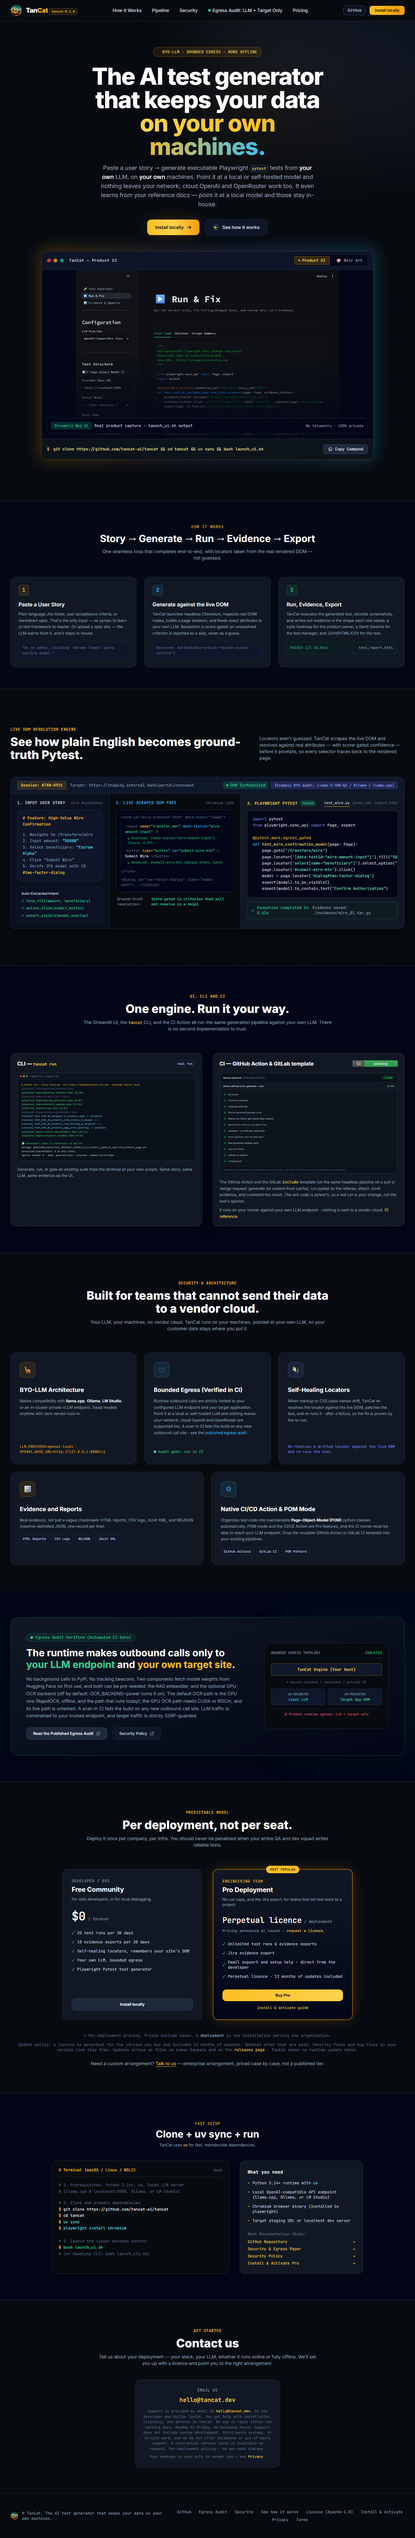
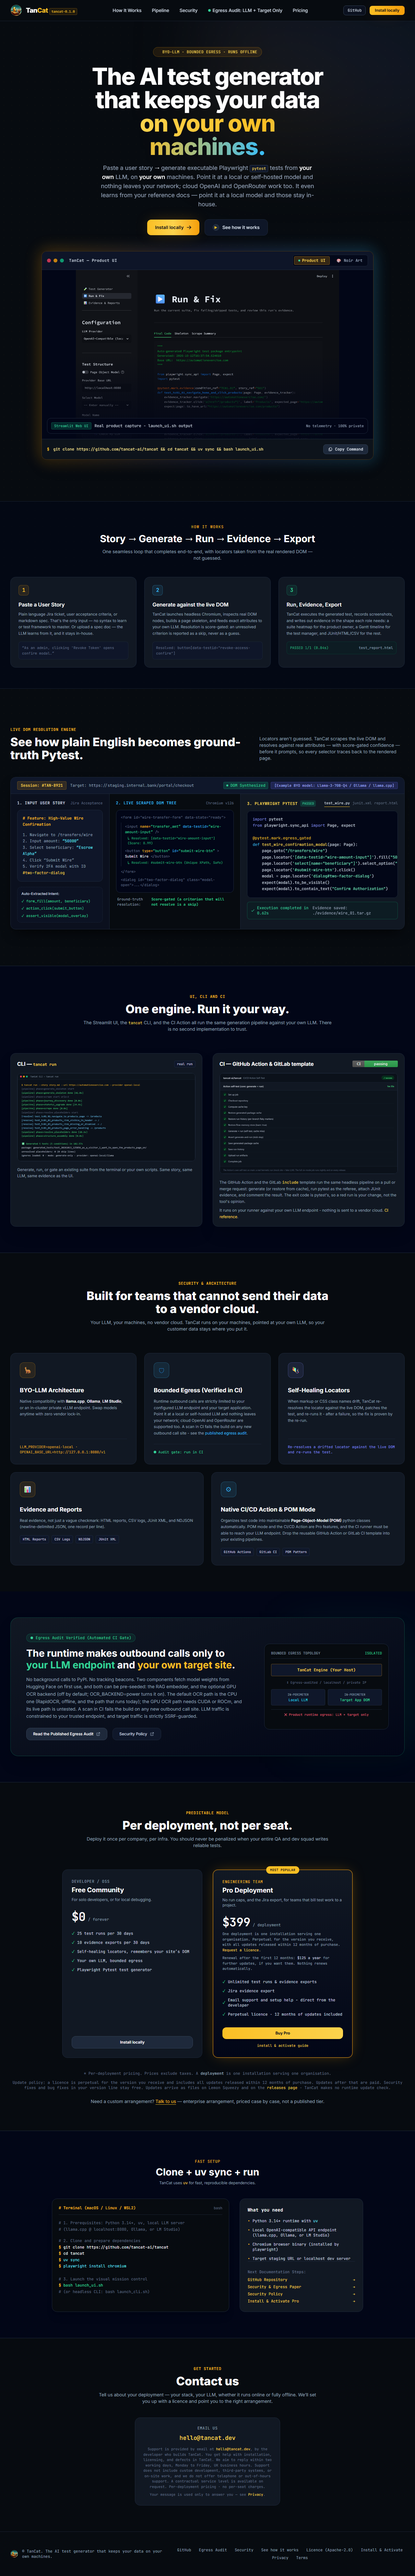
feat(landing): the settled price and update terms on the site (j-0297, d-0151)
The owner's words, written onto the site.

- Price: $399 per deployment, one price. No list price, no introductory wording,
  no 'was', no launch offer - he rejected all of them, because an introductory
  price with no honest end date is a claim he cannot back. 'Pricing announced at
  launch' is gone from the Pro card.
- Deployment: the card and the terms both say 'one installation serving one
  organisation'; the terms' own sentence used the US spelling and now matches.
- Renewal: '$125 a year' on the pricing page only, stated as the price for
  further updates after the first 12 months, with 'nothing renews automatically'.
  It is NOT in the terms, and no future-price or grandfathered language is
  anywhere.
- Terms, word for word as given: 'This licence is perpetual for the version you
  receive. It does not expire.' / 'It includes all updates released within 12
  months of purchase.' / 'Updates released after that are not included and can be
  bought separately if you want them.' / 'Nothing renews automatically. You will
  not be charged again unless you choose to buy.' plus the security-and-bug-fix
  line. The tier table now says 'perpetual for the version you receive' and 'all
  updates released within 12 months of purchase'.

src/licensing/pricing.py is the single source (399, 125, 12 months, the
deployment definition) so the card and the terms cannot drift - the same guard
the free export cap needed.
[…]

diff --git a/landing/index.html b/landing/index.html
@@ -334,15 +334,16 @@
   <div class="bg-gradient-to-b from-cardbg to-slate-950 rounded-2xl p-7 border-2 border-amber-500/60 shadow-amber-glow transition-all flex flex-col justify-between relative">
     <div class="absolute -top-3 left-1/2 -translate-x-1/2 px-3 py-1 bg-amber-400 text-slate-950 text-[10px] font-mono font-bold uppercase rounded-full tracking-wider shadow-sm">Most Popular</div>
     <div><div class="text-xs font-mono uppercase text-amber-400 tracking-wider">Engineering Team</div><h3 class="text-xl font-bold text-white mt-1">Pro Deployment</h3><p class="text-slate-400 text-xs mt-2">No run caps, and the Jira export, for teams that bill test work to a project.</p>
-    <div class="my-6"><span class="text-2xl font-black text-white font-mono">Perpetual licence</span><span class="text-slate-400 text-xs font-mono"> / deployment</span></div>
-    <div class="-mt-4 mb-6 text-[11px] font-mono text-slate-400">Pricing announced at launch - <a class="text-amber-300 hover:underline" href="#contact">request a licence</a>.</div>
+    <div class="my-6"><span class="text-4xl font-black text-white font-mono">$399</span><span class="text-slate-400 text-xs font-mono"> / deployment</span></div>
+    <div class="-mt-4 mb-6 text-[11px] font-mono text-slate-400">One deployment is one installation serving one organisation. Perpetual for the version you receive, with all updates released within 12 months of purchase. <a class="text-amber-300 hover:underline" href="#contact">Request a licence</a>.</div>
+    <div class="-mt-4 mb-6 text-[11px] font-mono text-slate-400">Renewal after the first 12 months: <span class="text-slate-300">$125 a year</span> for further updates, if you want them. Nothing renews automatically.</div>
     <ul class="space-y-3 text-xs text-slate-300 font-mono"><li class="flex items-center gap-2 text-emerald-400"><span>&#10003;</span><span class="text-slate-300">Unlimited test runs &amp; evidence exports</span></li><li class="flex items-center gap-2 text-emerald-400"><span>&#10003;</span><span class="text-slate-300">Jira evidence export</span></li><li class="flex items-center gap-2 text-emerald-400"><span>&#10003;</span><span class="text-slate-300">Email support and setup help - direct from the developer</span></li><li class="flex items-center gap-2 text-emerald-400"><span>&#10003;</span><span class="text-slate-300">Perpetual licence &middot; 12 months of updates included</span></li></ul></div>
     <div class="mt-8"><a class="w-full block text-center py-2.5 px-4 rounded-xl text-xs font-bold text-slate-950 bg-gradient-to-r from-amber-400 to-amber-300 hover:brightness-110 shadow-md transition-all" href="#contact" id="buy-pro" data-checkout-state="not-configured">Buy Pro</a></div>
     <p class="mt-3 text-center text-[11px] font-mono text-slate-500"><a class="text-amber-300 hover:underline" href="install.html">install &amp; activate guide</a></p>
   </div>
 </div>
 <div class="text-center mt-10 text-xs font-mono text-slate-500">* Per-deployment pricing. Prices exclude taxes. A <strong class="text-slate-400">deployment</strong> is one installation serving one organisation.</div>
-<div class="text-center mt-3 text-xs font-mono text-slate-500">Update policy: a licence is perpetual for the version you buy and includes 12 months of updates. Updates after that are paid. Security fixes and bug fixes in your version line stay free. Updates arrive as files on Lemon Squeezy and on the <a class="text-amber-300 hover:underline" href="https://github.com/tancat-ai/tancat/releases" rel="noopener noreferrer" target="_blank">releases page</a> - TanCat makes no runtime update check.</div>
+<div class="text-center mt-3 text-xs font-mono text-slate-500">Update policy: a licence is perpetual for the version you receive and includes all updates released within 12 months of purchase. Updates after that are paid. Security fixes and bug fixes in your version line stay free. Updates arrive as files on Lemon Squeezy and on the <a class="text-amber-300 hover:underline" href="https://github.com/tancat-ai/tancat/releases" rel="noopener noreferrer" target="_blank">releases page</a> - TanCat makes no runtime update check.</div>
 <div class="text-center mt-6 text-sm text-slate-400">
   Need a custom arrangement?
   <a class="text-amber-400 hover:text-amber-300 underline underline-offset-4" href="#contact">Talk to us</a>

diff --git a/landing/terms.html b/landing/terms.html
@@ -67,16 +67,20 @@ footer{margin-top:56px;padding-top:20px;border-top:1px solid #1e293b;font:12px u
 <table>
 <tr><th>Tier</th><th>Licence</th><th>Limits</th></tr>
 <tr><td>Free Community</td><td>Apache-2.0 (the open-source licence in the <a href="https://github.com/tancat-ai/tancat/blob/main/LICENSE" rel="noopener">repository</a>)</td><td>25 test runs per 30 days; 10 evidence exports per 30 days</td></tr>
-<tr><td>Pro Deployment</td><td>Commercial per-deployment licence, key issued by us; perpetual for the version bought</td><td>Unlimited runs for one deployment; Jira evidence export; 12 months of updates included</td></tr>
+<tr><td>Pro Deployment</td><td>$399 per deployment, key issued by us; perpetual for the version you receive</td><td>Unlimited runs for one deployment; Jira evidence export; all updates released within 12 months of purchase</td></tr>
 </table>
 <p>Custom, regulated or enterprise arrangements are agreed case by case, not sold as a published tier. <a href="index.html#contact">Contact us</a>.</p>
 
 <h2>Updates</h2>
-<p>A licence is <strong>perpetual for the version you buy</strong>: it does not expire, and the version you hold keeps working. It includes <strong>12 months of updates</strong> from the date of purchase. After those 12 months, further updates are paid. Security fixes and bug fixes in the version line you bought stay free for the life of the licence.</p>
+<p>This licence is perpetual for the version you receive. It does not expire.</p>
+<p>It includes all updates released within 12 months of purchase.</p>
+<p>Updates released after that are not included and can be bought separately if you want them.</p>
+<p>Nothing renews automatically. You will not be charged again unless you choose to buy.</p>
+<p>Security fixes and bug fixes for the version you hold are provided at no charge.</p>
 <p>Updates are delivered as files on Lemon Squeezy and on the <a href="https://github.com/tancat-ai/tancat/releases" rel="noopener">releases page</a>. TanCat does not check for updates at runtime and calls no vendor server; you choose when to install an update.</p>
 
 <h2>What a &ldquo;deployment&rdquo; is</h2>
-<p>One deployment is one installation of TanCat that serves one organization. You may not share, resell or publish a licence key. The free-tier limits are enforced locally by your own deployment, so a self-hoster can turn them off; they are a nudge, not a lock. We ask that you do not reset a limit to avoid paying for a paid tier.</p>
+<p>One deployment is one installation serving one organisation. You may not share, resell or publish a licence key. The free-tier limits are enforced locally by your own deployment, so a self-hoster can turn them off; they are a nudge, not a lock. We ask that you do not reset a limit to avoid paying for a paid tier.</p>
 
 <h2>Your responsibilities</h2>
 <ul>

diff --git a/tests/test_landing_price.py b/tests/test_landing_price.py
@@ -1,0 +1,95 @@
+"""d-0151: the price and the update policy, held to one source.
+
+The same drift the free export cap had: a number typed in two places. The owner's
+settled position (2026-11-06) is in ``src/licensing/pricing.py``; these tests hold
+the pricing card and the terms to it, and forbid the claims he rejected.
+"""
+
+from __future__ import annotations
+
+import re
+from pathlib import Path
+
+from src.licensing.pricing import (
+    DEPLOYMENT_DEFINITION,
+    PRICE_PER_DEPLOYMENT_USD,
+    RENEWAL_PER_YEAR_USD,
+    UPDATES_INCLUDED_MONTHS,
+)
+
+REPO_ROOT = Path(__file__).resolve().parent.parent
+INDEX = REPO_ROOT / "landing" / "index.html"
+TERMS = REPO_ROOT / "landing" / "terms.html"
+
+#: Claims the owner refused: an introductory price with no honest end date, a
+#: list price he never charged, and a launch offer.
+FORBIDDEN_CLAIMS = (
+    "introductory",
+    "was $",
+    "limited time",
+    "launch offer",
+    "special price",
+)
+
+
+def _flat(path: Path) -> str:
+    """The page as one line of collapsed whitespace, for phrase matching."""
+    return " ".join(path.read_text(encoding="utf-8").split())
+
+
+def test_the_card_carries_the_price_from_the_one_source() -> None:
+    page = _flat(INDEX)
+    assert f"${PRICE_PER_DEPLOYMENT_USD}" in page, "the Pro card does not show the settled price"
+    assert "Pricing announced at launch" not in page, "the placeholder price is still on the page"
+
+
+def test_the_terms_carry_the_price_from_the_one_source() -> None:
+    page = _flat(TERMS)
+    assert f"${PRICE_PER_DEPLOYMENT_USD} per deployment" in page, "the terms do not state the settled price"
+    # And no second number that could pass for a price.
+    prices = {int(match) for match in re.findall(r"\$(\d[\d,]*)", page)}
+    assert prices == {PRICE_PER_DEPLOYMENT_USD}, f"the terms quote more than one price: {sorted(prices)}"
+
+
+def test_the_card_and_the_terms_define_a_deployment_the_same_way() -> None:
+    for path in (INDEX, TERMS):
+        assert DEPLOYMENT_DEFINITION in _flat(path), f"{path.name} does not carry the deployment definition"
+
+
+def test_the_card_states_the_update_window_from_the_one_source() -> None:
+    page = _flat(INDEX)
+    assert f"{UPDATES_INCLUDED_MONTHS} months of purchase" in page
+
+
+def test_the_renewal_price_is_on_the_pricing_page_and_not_in_the_terms() -> None:
+    """Owner's decision: the renewal price is a page figure, not a contract term."""
+    assert f"${RENEWAL_PER_YEAR_USD} a year" in _flat(INDEX), "the pricing page does not state the renewal"
+    terms = _flat(TERMS)
+    assert f"${RENEWAL_PER_YEAR_USD}" not in terms, "the renewal price leaked into the terms"
+    assert "a year" not in terms, "the terms talk about a yearly figure"
+
+
+def test_no_claim_the_owner_rejected_appears_on_the_site() -> None:
+    for path in sorted((REPO_ROOT / "landing").glob("*.html")):
+        page = _flat(path).lower()
+        for claim in FORBIDDEN_CLAIMS:
+            assert claim not in page, f"{path.name} carries a claim the owner rejected: {claim!r}"
+
+
+def test_the_terms_state_the_four_settled_sentences_and_the_security_line() -> None:
+    page = _flat(TERMS)
+    settled = (
+        "This licence is perpetual for the version you receive. It does not expire.",
+        f"It includes all updates released within {UPDATES_INCLUDED_MONTHS} months of purchase.",
+        "Updates released after that are not included and can be bought separately if you want them.",
+        "Nothing renews automatically. You will not be charged again unless you choose to buy.",
+        "Security fixes and bug fixes for the version you hold are provided at no charge.",
+    )
+    for sentence in settled:
+        assert sentence in page, f"the terms do not carry the settled sentence: {sentence!r}"
+
+
+def test_the_terms_promise_nothing_about_future_years() -> None:
+    page = _flat(TERMS).lower()
+    for phrase in ("grandfathered", "price held", "prices will", "future price", "will not increase"):
+        assert phrase not in page, f"the terms promise something about future pricing: {phrase!r}"

diff --git a/src/licensing/pricing.py b/src/licensing/pricing.py
@@ -1,0 +1,30 @@
+"""The price and the update policy, in one place (d-0151).
+
+The owner settled these on 2026-11-06:
+
+- **$399 per deployment, one price.** No list price and no introductory wording -
+  an introductory price with no honest end date is a claim we cannot back.
+- **Renewal: $125 a year**, shown on the pricing page only. It is not a contract
+  term and must not appear in the terms.
+- **Perpetual for the version received**, including all updates released within
+  12 months of purchase; updates after that are not included and may be bought
+  separately; nothing renews automatically.
+
+The pages are static HTML, so this module is the single source a test reads to
+hold the card and the terms to the same number - the same guard the free export
+cap needed after it drifted.
+"""
+
+from __future__ import annotations
+
+#: One price, per deployment. No `was`, no `launch offer`.
+PRICE_PER_DEPLOYMENT_USD = 399
+
+#: The current renewal price, in dollars per year. Pricing page only.
+RENEWAL_PER_YEAR_USD = 125
+
+#: Updates released inside this window are included with the licence.
+UPDATES_INCLUDED_MONTHS = 12
+
+#: What the price is for. The card and the terms must say the same thing.
+DEPLOYMENT_DEFINITION = "one installation serving one organisation"
